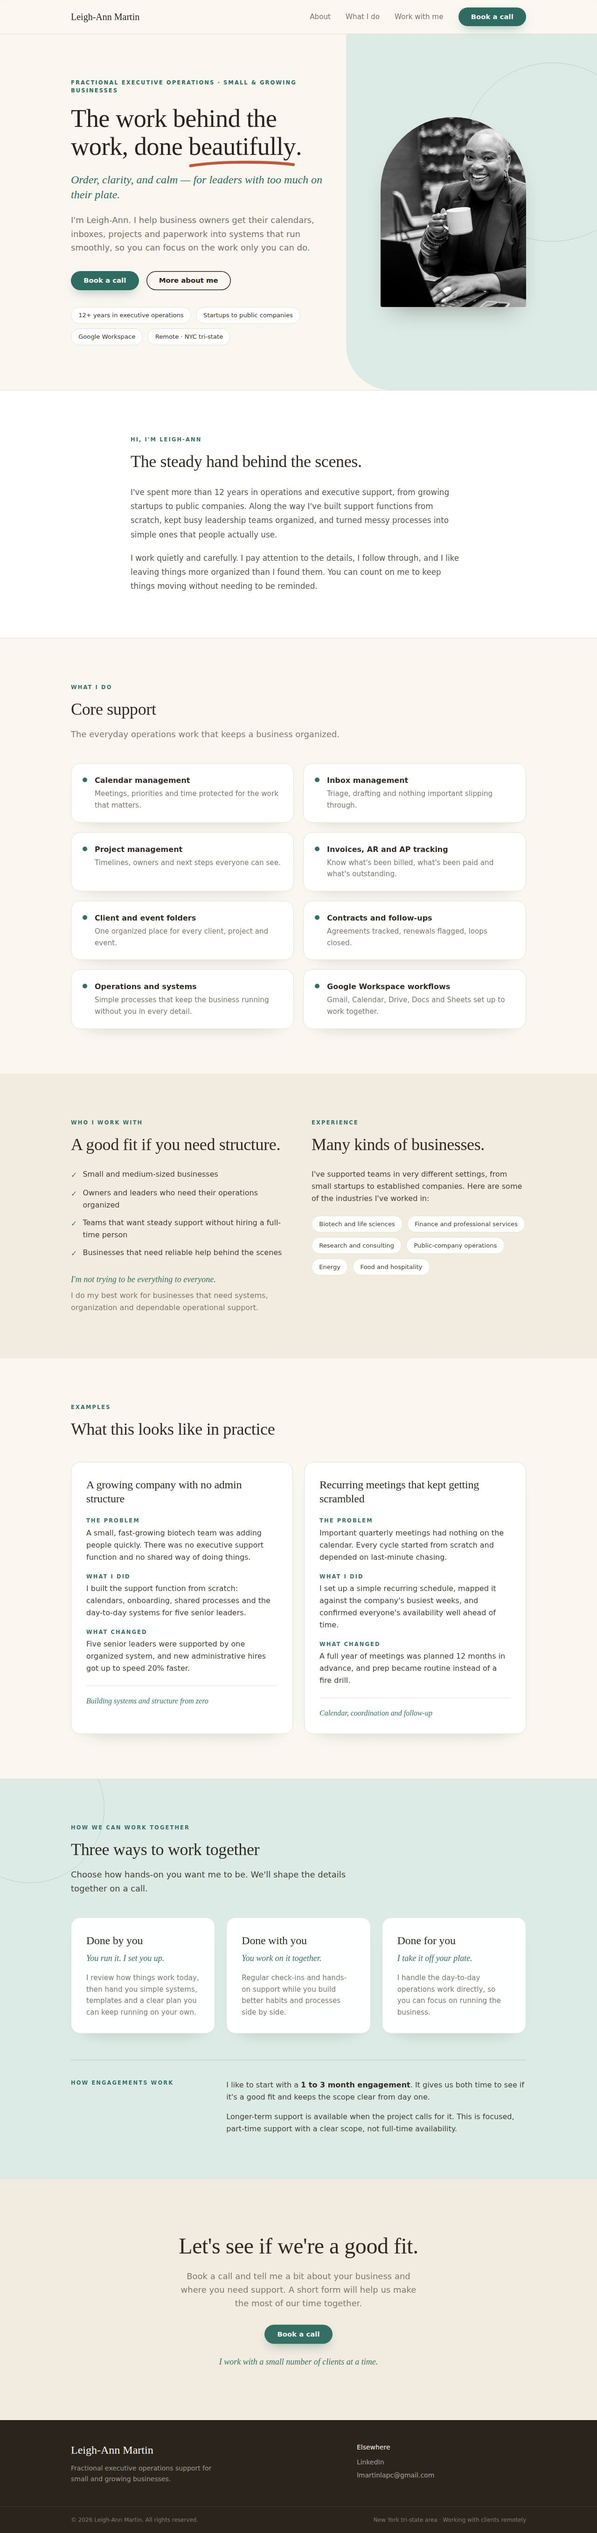
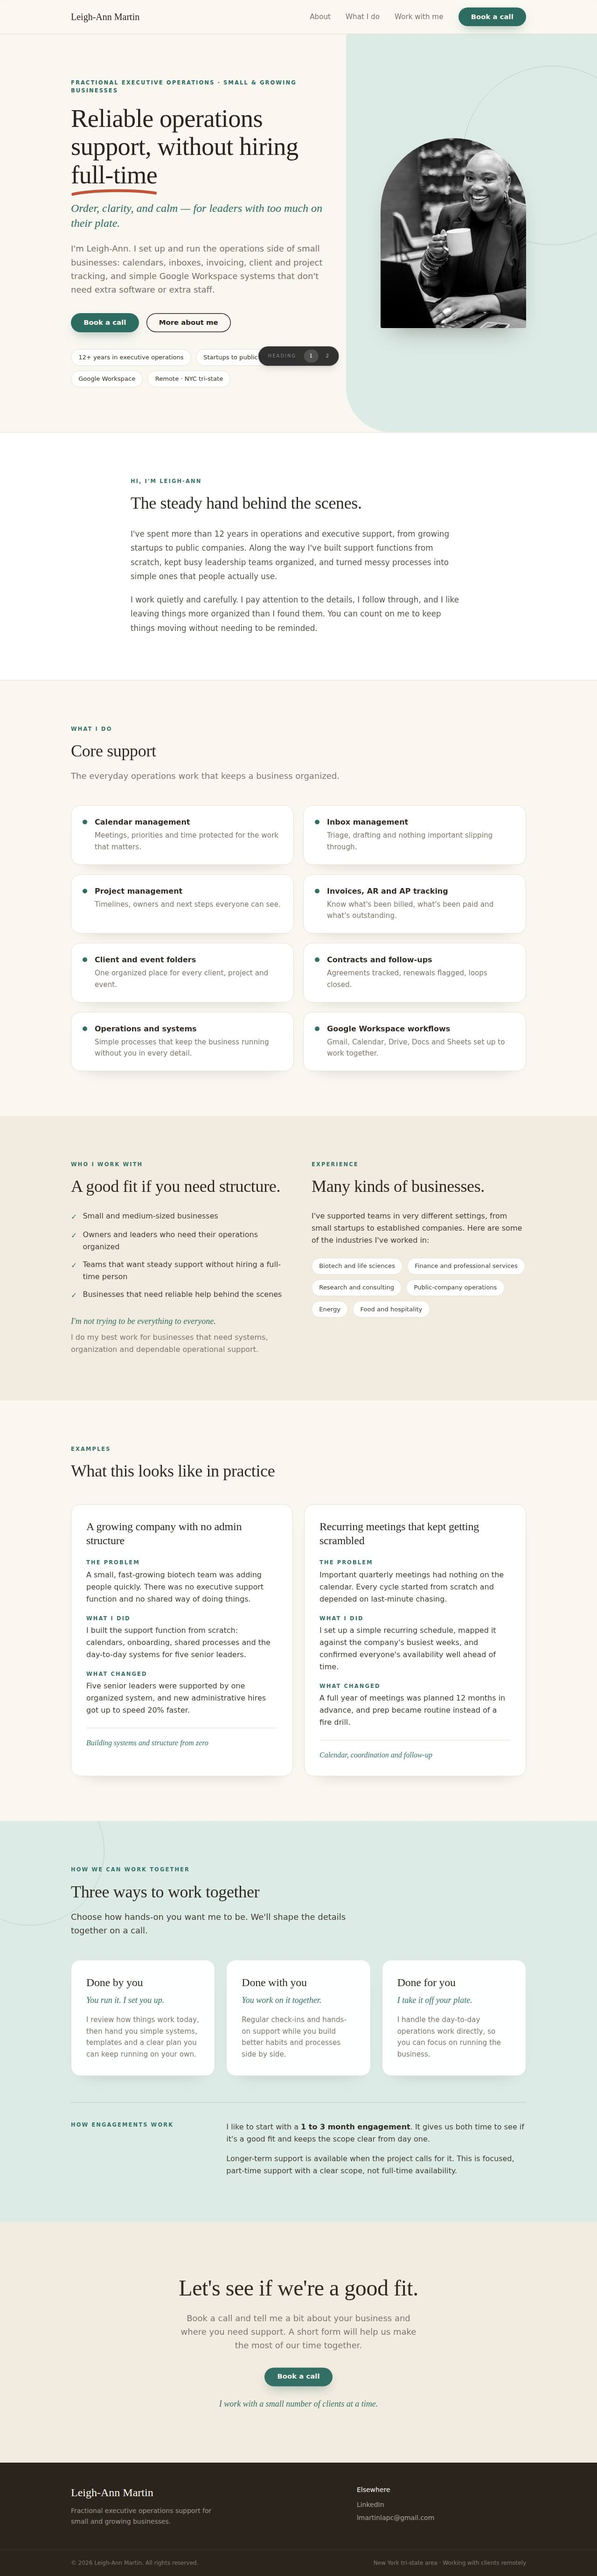
feat: add hero heading picker on / and /new so Leigh-Ann can choose
Two candidate headings with lead paragraphs that spell out the offer live in
src/data/headings.ts. A floating pill swaps them in place, remembers the pick
in localStorage, and ?heading=N opens a page on a given one.

Claude-Session: https://claude.ai/code/session_01UQst6mp6QpTFgDjzQLEcy9

diff --git a/src/data/headings.ts b/src/data/headings.ts
@@ -1,0 +1,12 @@
+// Candidate hero headings for Leigh-Ann to pick from. Shared by / and /new.
+// Each `sub` is the lead paragraph under the h1 and should say what she offers.
+export const headings = [
+  {
+    title: "Reliable operations support, without hiring full-time",
+    sub: "I'm Leigh-Ann. I set up and run the operations side of small businesses: calendars, inboxes, invoicing, client and project tracking, and simple Google Workspace systems that don't need extra software or extra staff.",
+  },
+  {
+    title: "Calm, organized operations for small and growing businesses.",
+    sub: "I'm Leigh-Ann. I help owners get their calendars, inboxes, invoicing and client tracking into simple Google Workspace systems, so the business runs smoothly without a full-time hire or expensive tools.",
+  },
+];

diff --git a/README.md b/README.md
@@ -25,6 +25,8 @@ The simplified one-page site, built in October 2026 from Leigh-Ann's outline: he
 
 Both use the same `BOOK_CALL_URL` constant at the top of their page file. It currently points at Calendly; swap it for the Google intake form when that's ready.
 
+**Heading picker.** Both pages have a floating "Heading 1 / 2" pill at the bottom so Leigh-Ann can flip between candidate hero headings. The candidates (title + lead paragraph) live in `src/data/headings.ts`; the pill is `src/components/HeadingSwitcher.astro`. Append `?heading=2` to a URL to open a page on a given heading. Once she's chosen, delete the unused entry, remove the `<HeadingSwitcher>` from both pages and the `data-heading-*` hooks in their heroes.
+
 ---
 
 ## 2. Previous site (editorial)
@@ -110,7 +112,10 @@ src/
   components/
     editorial/                   sections of the previous site (Masthead, Overture, TwoPaths, …)
     mockups/VariantSwitcher.astro
-  data/pull-quotes.ts            anonymised testimonials used by the editorial pages
+    HeadingSwitcher.astro        floating picker for the candidate hero headings on / and /new
+  data/
+    headings.ts                  candidate hero headings (title + lead paragraph) for / and /new
+    pull-quotes.ts               anonymised testimonials used by the editorial pages
 public/portrait.jpg              the one portrait every version uses
 docs/screenshots/                header (PNG) + full-page (JPG) shots of every page
 ```
